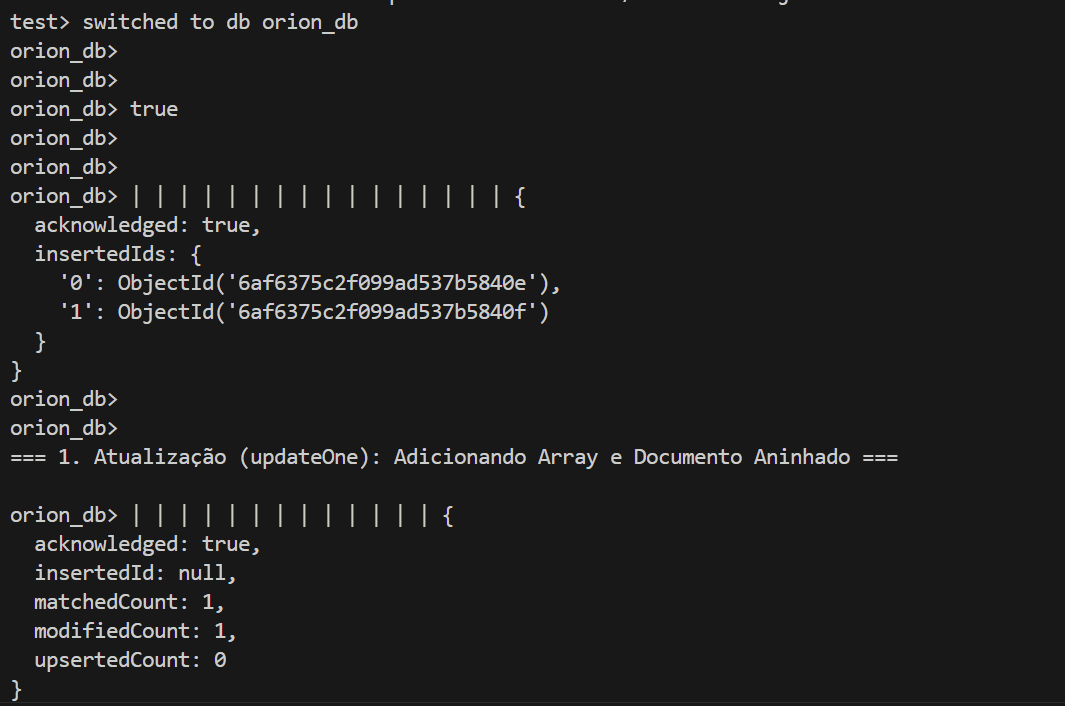
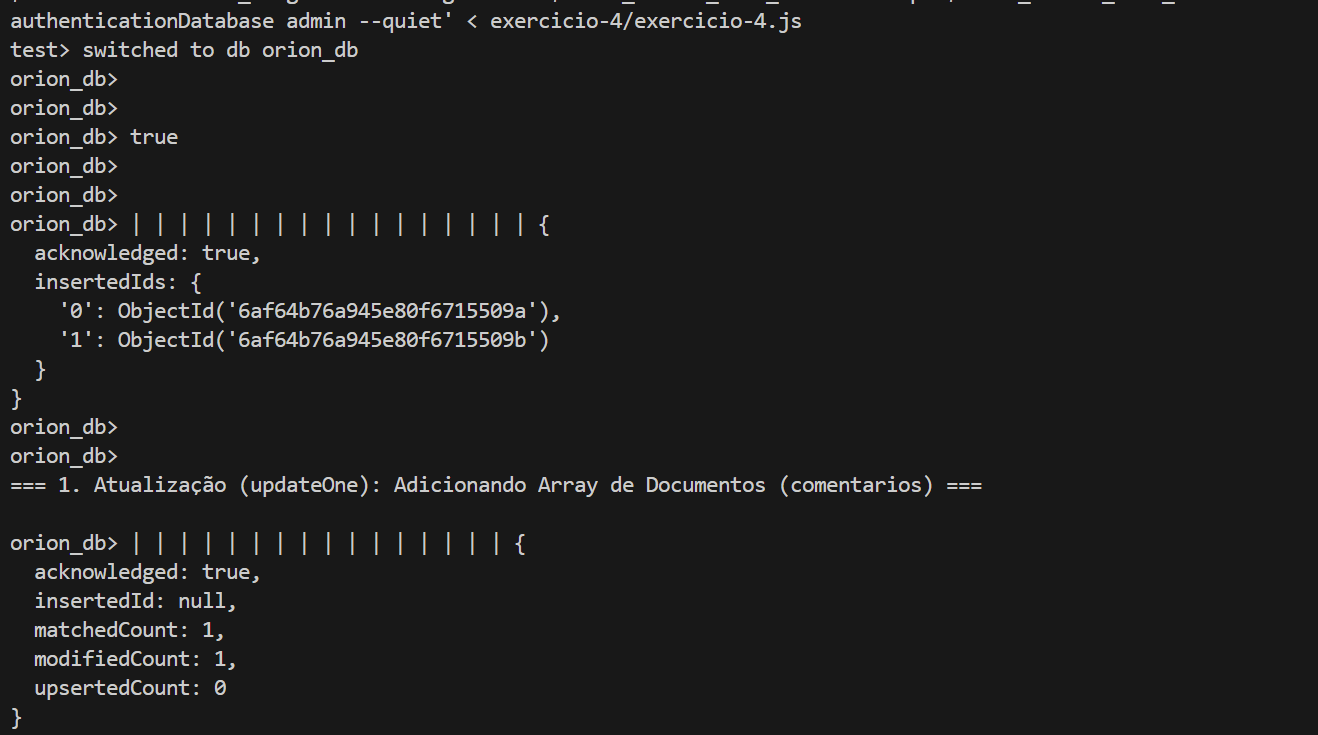
feat(db): adiciona array de documentos comentarios e filtros literais no exercicio 4

diff --git a/banco-de-dados/exercicio-4/exercicio-4.js b/banco-de-dados/exercicio-4/exercicio-4.js
@@ -15,6 +15,7 @@ db.posts.insertMany([
         titulo: "Modelagem Flexível na Prática",
         autor: "Maria Oliveira",
         visualizacoes: 240,
+        tags: ["mongodb", "nosql", "modelagem"],
         detalhes: {
             categoria: "Arquitetura de Dados",
             tempo_leitura_min: 6
@@ -22,14 +23,17 @@ db.posts.insertMany([
     }
 ])
 
-print("\n=== 1. Atualização (updateOne): Adicionando Array e Documento Aninhado ===")
+print("\n=== 1. Atualização (updateOne): Adicionando Array de Documentos (comentarios) ===")
 db.posts.updateOne(
     { autor: "Maria Oliveira" },
     {
         $set: {
             visualizacoes: 300,
             publicado: true,
-            tags: ["mongodb", "nosql", "modelagem"],
+            comentarios: [
+                { usuario: "Carlos Santos", texto: "Excelente explicação sobre schema flexível!" },
+                { usuario: "Ana Costa", texto: "Muito útil para o projeto." }
+            ],
             revisao: {
                 status: "aprovado",
                 nota: 10
@@ -38,14 +42,17 @@ db.posts.updateOne(
     }
 )
 
-print("\n=== 2. Filtro Avançado (find): Consulta dentro de Array ===")
-db.posts.find({ tags: "mongodb" })
+print("\n=== 2. Filtro Avançado (find): Consulta dentro de Array (tag 'nosql') ===")
+db.posts.find({ tags: "nosql" })
 
-print("\n=== 3. Filtro Avançado (find): Consulta dentro de Documento Aninhado ===")
-db.posts.find({ "detalhes.categoria": "Arquitetura de Dados", "revisao.status": "aprovado" })
+print("\n=== 3. Filtro por Campo Específico (find): Autor ===")
+db.posts.find({ autor: "Maria Oliveira" })
 
-print("\n=== 4. Remoção (deleteOne): Excluindo Post de João Silva ===")
+print("\n=== 4. Filtro Avançado (find): Consulta dentro de Documentos Aninhados ===")
+db.posts.find({ "detalhes.categoria": "Arquitetura de Dados", "comentarios.usuario": "Carlos Santos" })
+
+print("\n=== 5. Remoção (deleteOne): Excluindo Post de João Silva ===")
 db.posts.deleteOne({ autor: "João Silva" })
 
-print("\n=== 5. Documentos Restantes na Coleção posts ===")
+print("\n=== 6. Documentos Restantes na Coleção posts ===")
 db.posts.find()
